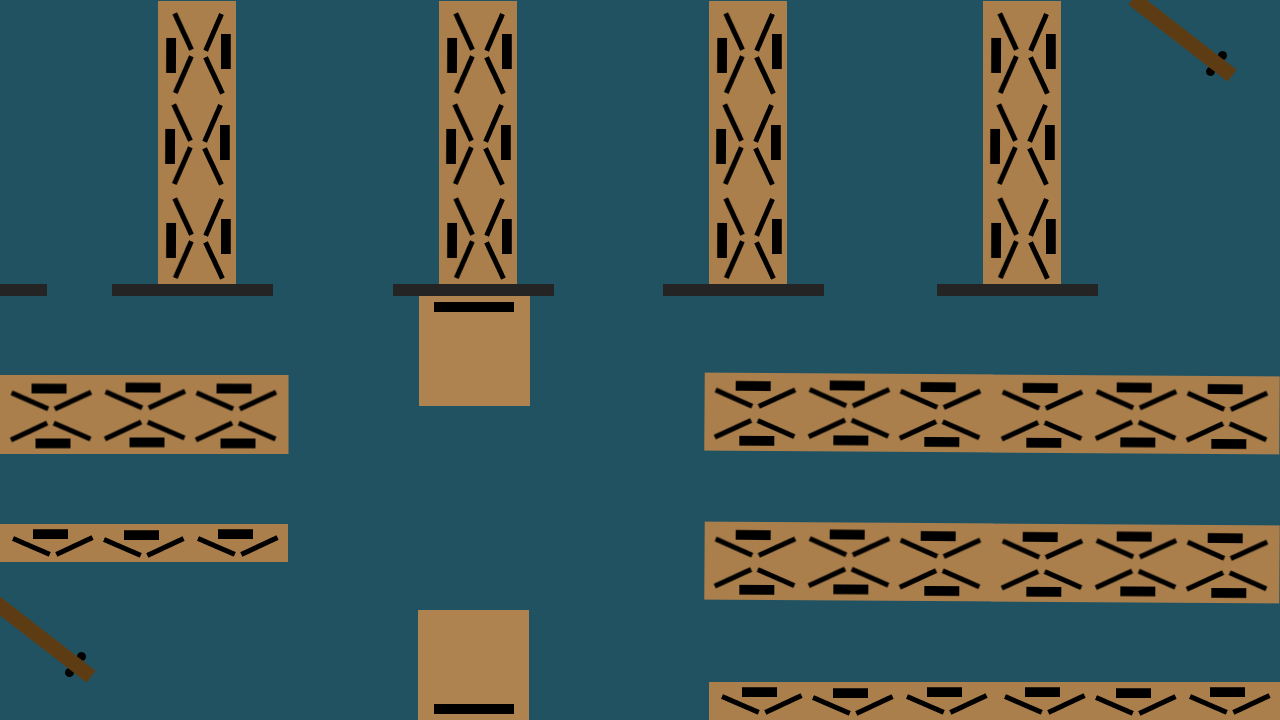
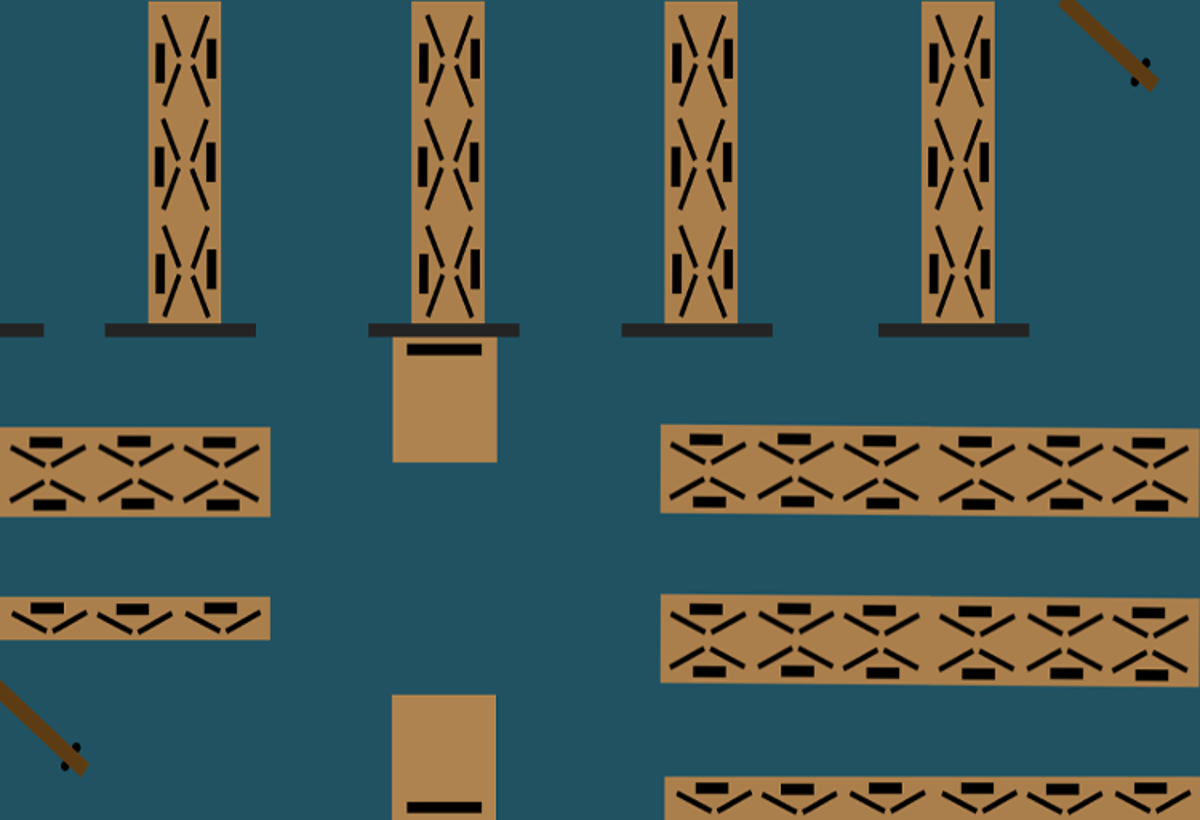
fixed img scaling

diff --git a/src/Test.java b/src/Test.java
@@ -13,9 +13,10 @@ public class Test extends JFrame {
 //        JPanel main = new JPanel(new GridBagLayout());
 //        main.setBackground(Color.gray);
 //
+        setSize(1200, 1000);
         box = new GuiDialogueBox();
         JPanel main = new JPanel(new GridBagLayout());
-        main.setSize(1280,1000);
+        main.setSize(1200,1000);
 
 
         GridBagConstraints c = new GridBagConstraints();
@@ -26,17 +27,17 @@ public class Test extends JFrame {
         c.fill = GridBagConstraints.BOTH;
         //setLayout(new GridLayout(2,1));
         main.add(new GameBoard(),c);
-        c.gridx=0;c.gridy=1;
+        c.gridx=0;c.gridy=2;
         c.weightx=1;c.weighty=0;
         c.anchor = GridBagConstraints.SOUTH;
-        c.insets = new Insets(-10,0,0,0);
+        c.insets = new Insets(-5,0,0,0);
         c.fill = GridBagConstraints.BOTH;
         main.add(box,c);
 //
         add(main);
 //        add(new GameBoard());
         setDefaultCloseOperation(JFrame.EXIT_ON_CLOSE);
-        setSize(1200, 1000);
+
         setLocationRelativeTo(null);
         setTitle("Test Movement");
         setResizable(false);

diff --git a/src/GameBoard.java b/src/GameBoard.java
@@ -19,7 +19,7 @@ public class GameBoard extends JPanel implements ActionListener {
 
     public GameBoard() {
         setBorder(COMPOUND_BORDER);
-        setSize(1280,720);
+        setSize(1200,1000);
         addKeyListener(new MoveAdapter());
         setFocusable(true);
         setBackground(Color.WHITE);
@@ -55,7 +55,7 @@ public class GameBoard extends JPanel implements ActionListener {
         super.paint(g);
         Graphics2D g2d = (Graphics2D)g;
 
-        g2d.drawImage(room.getImage(),0,0 ,this);
+        g2d.drawImage(room.getImage(),0,0 , 1200,890,this);
 
         if(room.getSuspects() != null) {
             for (Suspect s : room.getSuspects()) {
